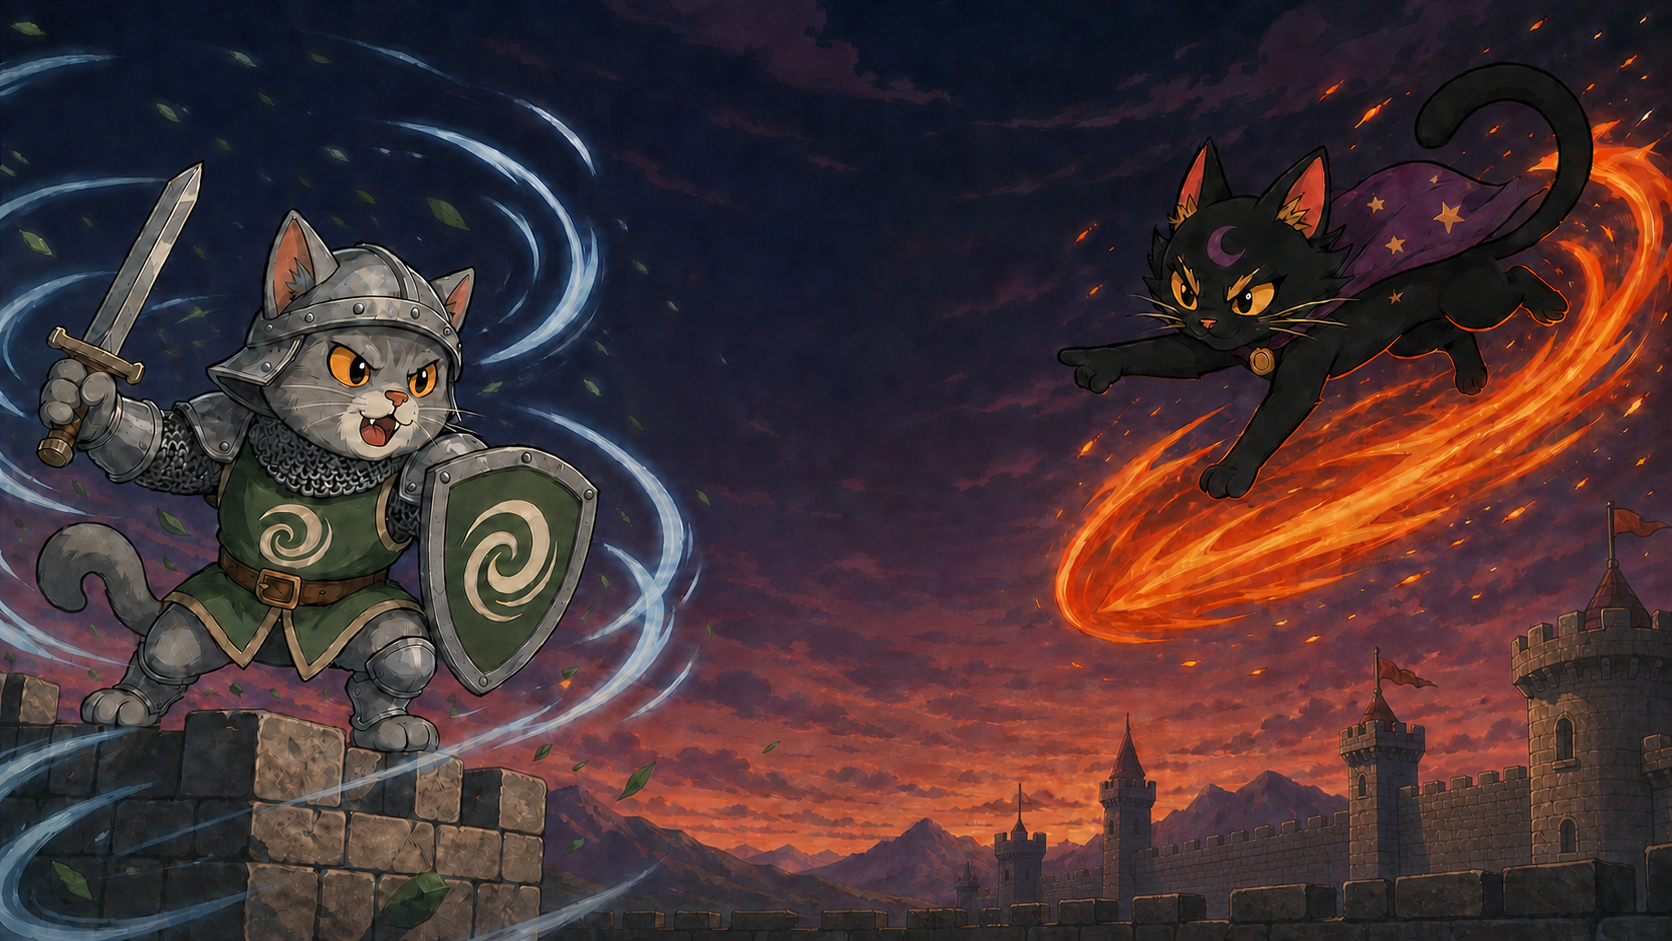
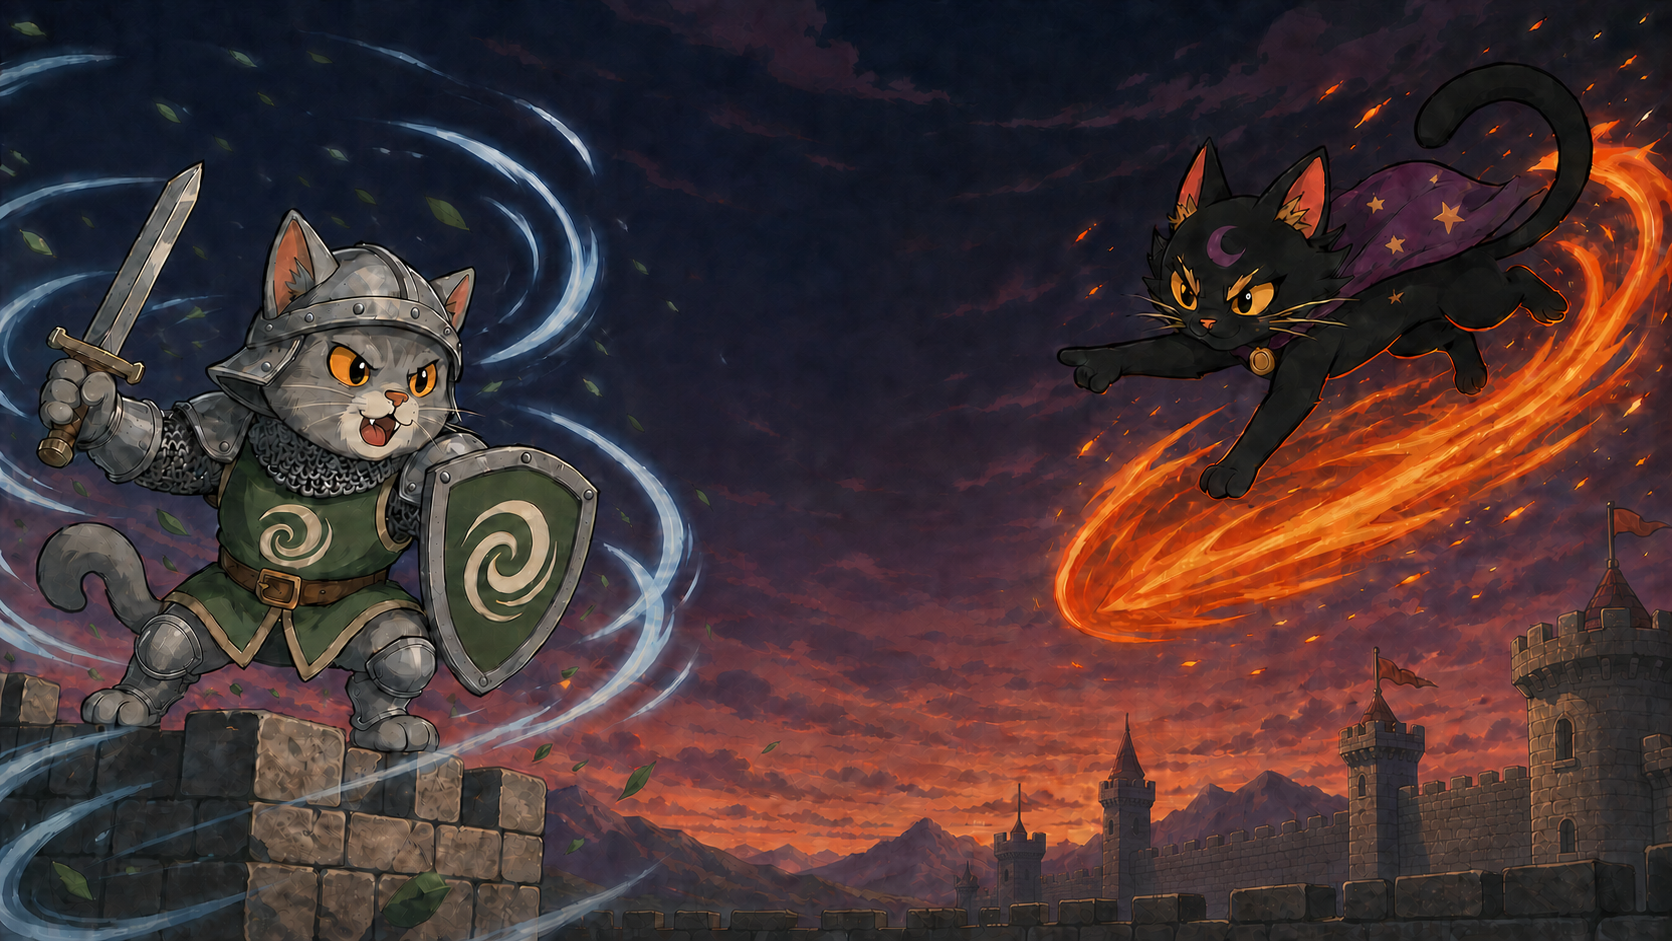
Fix Sir Squall knee armor

Changed region(s): [[0.0622, 0.6472, 0.1244, 0.7396], [0.6842, 0.3082, 0.7153, 0.339], [0.1866, 0.4931, 0.2177, 0.5239]]

diff --git a/styles.css b/styles.css
@@ -1926,7 +1926,7 @@ footer {
   background:
     radial-gradient(ellipse at 50% 43%, rgba(13, 12, 27, .38), transparent 42%),
     linear-gradient(180deg, rgba(7, 9, 22, .08), rgba(18, 10, 18, .13) 54%, rgba(12, 8, 13, .38)),
-    url("./assets/backgrounds/main-menu-sir-squall-vs-comet-claw.png?v=6") center center / cover no-repeat,
+    url("./assets/backgrounds/main-menu-sir-squall-vs-comet-claw.png?v=7") center center / cover no-repeat,
     #21151a;
   border: 0;
   box-shadow:
